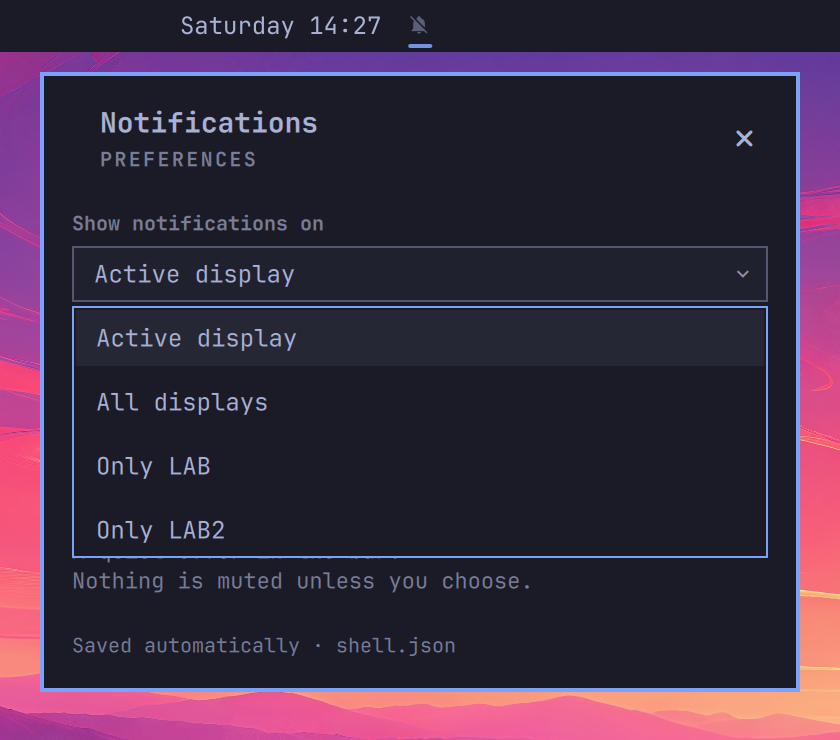
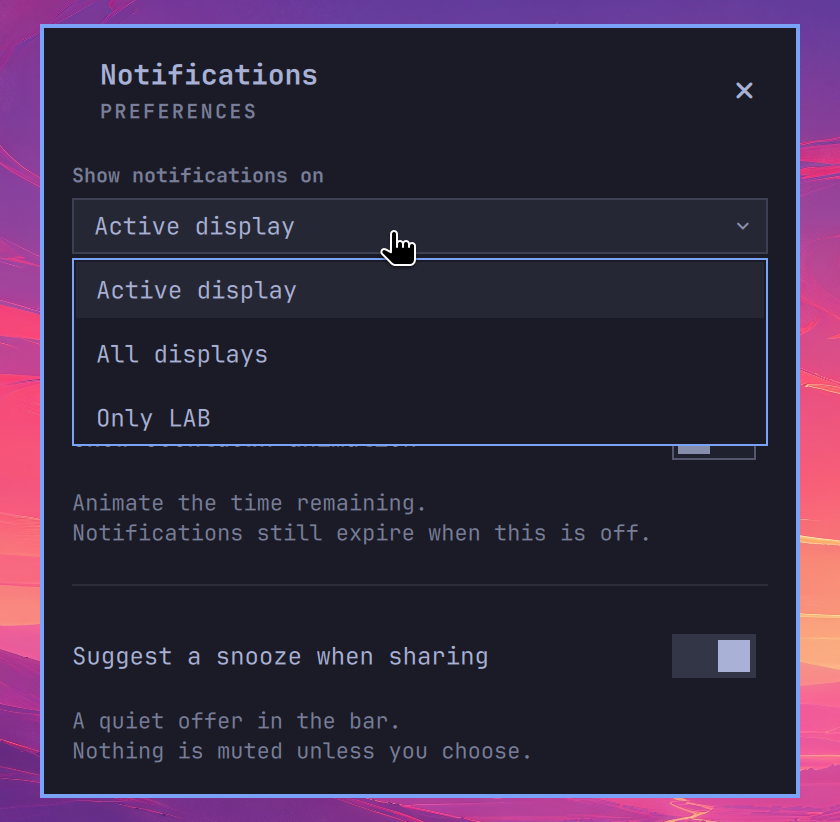
Keep edge spacing out of preferences and refresh documentation
Remove the edge spacing control from the panel and generated settings schema,
while retaining the config key and 12px default. Refresh preferences and
menu screenshots, clarify config-only support, and remove the obsolete
unreleased-hardening banner from the README.

diff --git a/Widget.qml b/Widget.qml
@@ -717,34 +717,6 @@ BarWidget {
               width: parent.width
               spacing: Style.spacing.lg
 
-              NumberField {
-                width: parent.width
-                label: "Edge spacing (px)"
-                from: 0
-                to: 64
-                value: pager.configuredEdgeSpacing
-                foreground: pager.panelFg
-                fontFamily: pager.fontFamily
-                onModified: function(value) { pager.persistSettings({ edgeSpacing: value }) }
-              }
-
-              Text {
-                width: parent.width
-                text: "Space from the bar and screen edges.\nApplies to notifications and this panel."
-                textFormat: Text.PlainText
-                color: Qt.darker(pager.panelFg, 1.4)
-                font.family: pager.fontFamily
-                font.pixelSize: Style.font.bodySmall
-                wrapMode: Text.WordWrap
-              }
-            }
-
-            PanelSeparator { foreground: pager.panelFg }
-
-            Column {
-              width: parent.width
-              spacing: Style.spacing.lg
-
               Row {
                 width: parent.width
                 spacing: Style.spacing.controlGap

diff --git a/README.md b/README.md
@@ -1,15 +1,3 @@
-> **Unreleased hardening branch:** based on upstream commit
-> `29548e5761f1b9f419afe988d77f67e3dd3e81cb`. See
-> [upstream handoff](docs/UPSTREAM_HANDOFF.md) for the implementation and review
-> notes. Bubblewrap is required for helpers; remote icons and implicit sender
-> default actions are off by default. History defaults to 24 hours/100 entries,
-> and detected-code notifications are stored as redacted placeholders.
-> This branch is a draft review proposal and has not passed live integration testing.
-> The original feature documentation below describes the upstream UX; the
-> [security architecture](docs/SECURITY_ARCHITECTURE.md) overrides conflicting
-> security/default-behavior statements. Use reviewed commits for installation,
-> and complete disposable-session integration checks before enabling this branch.
-
 <img src="assets/title.png" width="1266" alt="Omapager">
 
 <!--
@@ -194,24 +182,24 @@ Hyprland's focused monitor. A visible deck stays put when focus moves.
 retained, with a connected-display fallback until the output returns.
 **All displays** shows the same deck everywhere. Dismissal and snoozing remain shared.
 
-The dropdown, number field, switch, header and separator reuse Omarchy's UI
+The dropdown, switches, header and separators reuse Omarchy's UI
 components rather than defining a separate control style.
 Use arrows or `j`/`k` in the dropdown, Enter to choose and Escape to close the menu.
 
-**Edge spacing (px)** sets the distance from the bar and screen edges for both
-notification cards and the settings/history panel. It defaults to **12 logical
-pixels**, accepts 0–64, and applies immediately. Notifications remain top-right,
-clearing the bar only when it occupies the top or right edge. Internal padding
-and the spacing between cards are unchanged.
+`edgeSpacing` is a **config-only** option in the bar-widget's `shell.json` entry,
+not a preferences control. It sets the distance from the bar and screen edges
+for notification cards and the panel: **12 logical pixels** by default, range
+0–64. Notifications remain top-right, clearing the bar only on the top or right.
+Internal padding and the spacing between cards are unchanged.
 
 **Show countdown animation** is off by default. Enable it to show a shrinking
 time-remaining line along the bottom of notifications. This changes only the
 visual timer; notifications still expire normally when it is disabled.
 
-<img src="assets/display-settings-2x.png" width="420" alt="Notification preferences with 12px edge spacing and countdown animation switched off">
+<img src="assets/display-settings-2x.png" width="420" alt="Notification preferences with display selection, optional countdown animation and sharing snooze suggestions">
 
-The in-panel preferences expose display selection, edge spacing, countdown
-animation and sharing offers. They save to the same bar-widget entry and persist
+The in-panel preferences expose display selection, countdown animation and
+sharing offers. They save to the same bar-widget entry and persist
 across shell restarts. The other options below can be set on that entry too;
 there is no second user configuration file to maintain. Defaults are for a fresh
 configuration, not a reset of choices you have already saved.

diff --git a/docs/DEVELOPING.md b/docs/DEVELOPING.md
@@ -307,7 +307,7 @@ Set `OMARCHY_SHELL_DIR` if the shell is installed somewhere other than
 
 Use the installed `qs.Ui` kit rather than copying first-party component code.
 `Toast` composes `BorderSurface`, `Button` and `TextField`; the panel uses the real
-`PanelHero`, `CursorSurface`, `Dropdown`, `NumberField` and `ToggleSwitch`.
+`PanelHero`, `CursorSurface`, `Dropdown` and `ToggleSwitch`.
 Card borders come from `Border.surfaceSpec("notifications", ...)`, including
 gradient and per-side widths. Content geometry includes those insets.
 The canvas follows the stock scaled 380px notification width. `edgeSpacing`
